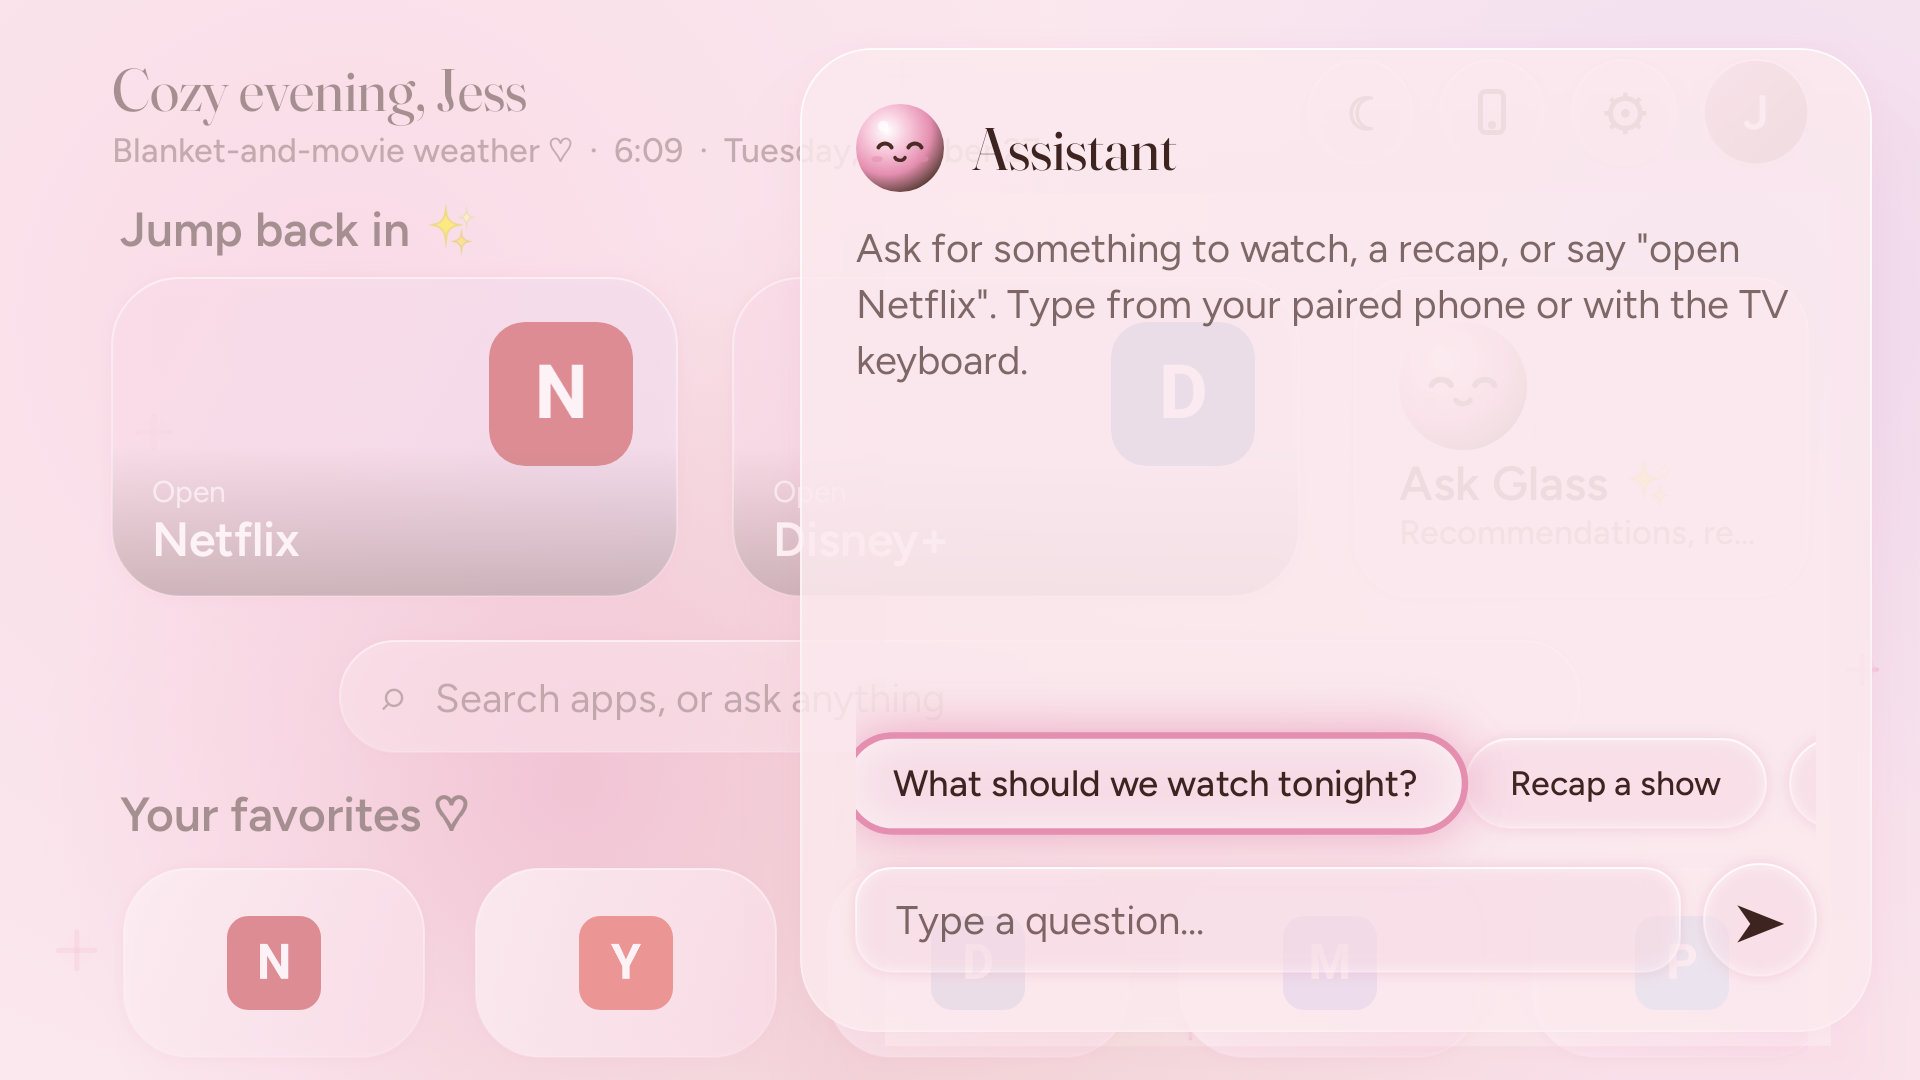
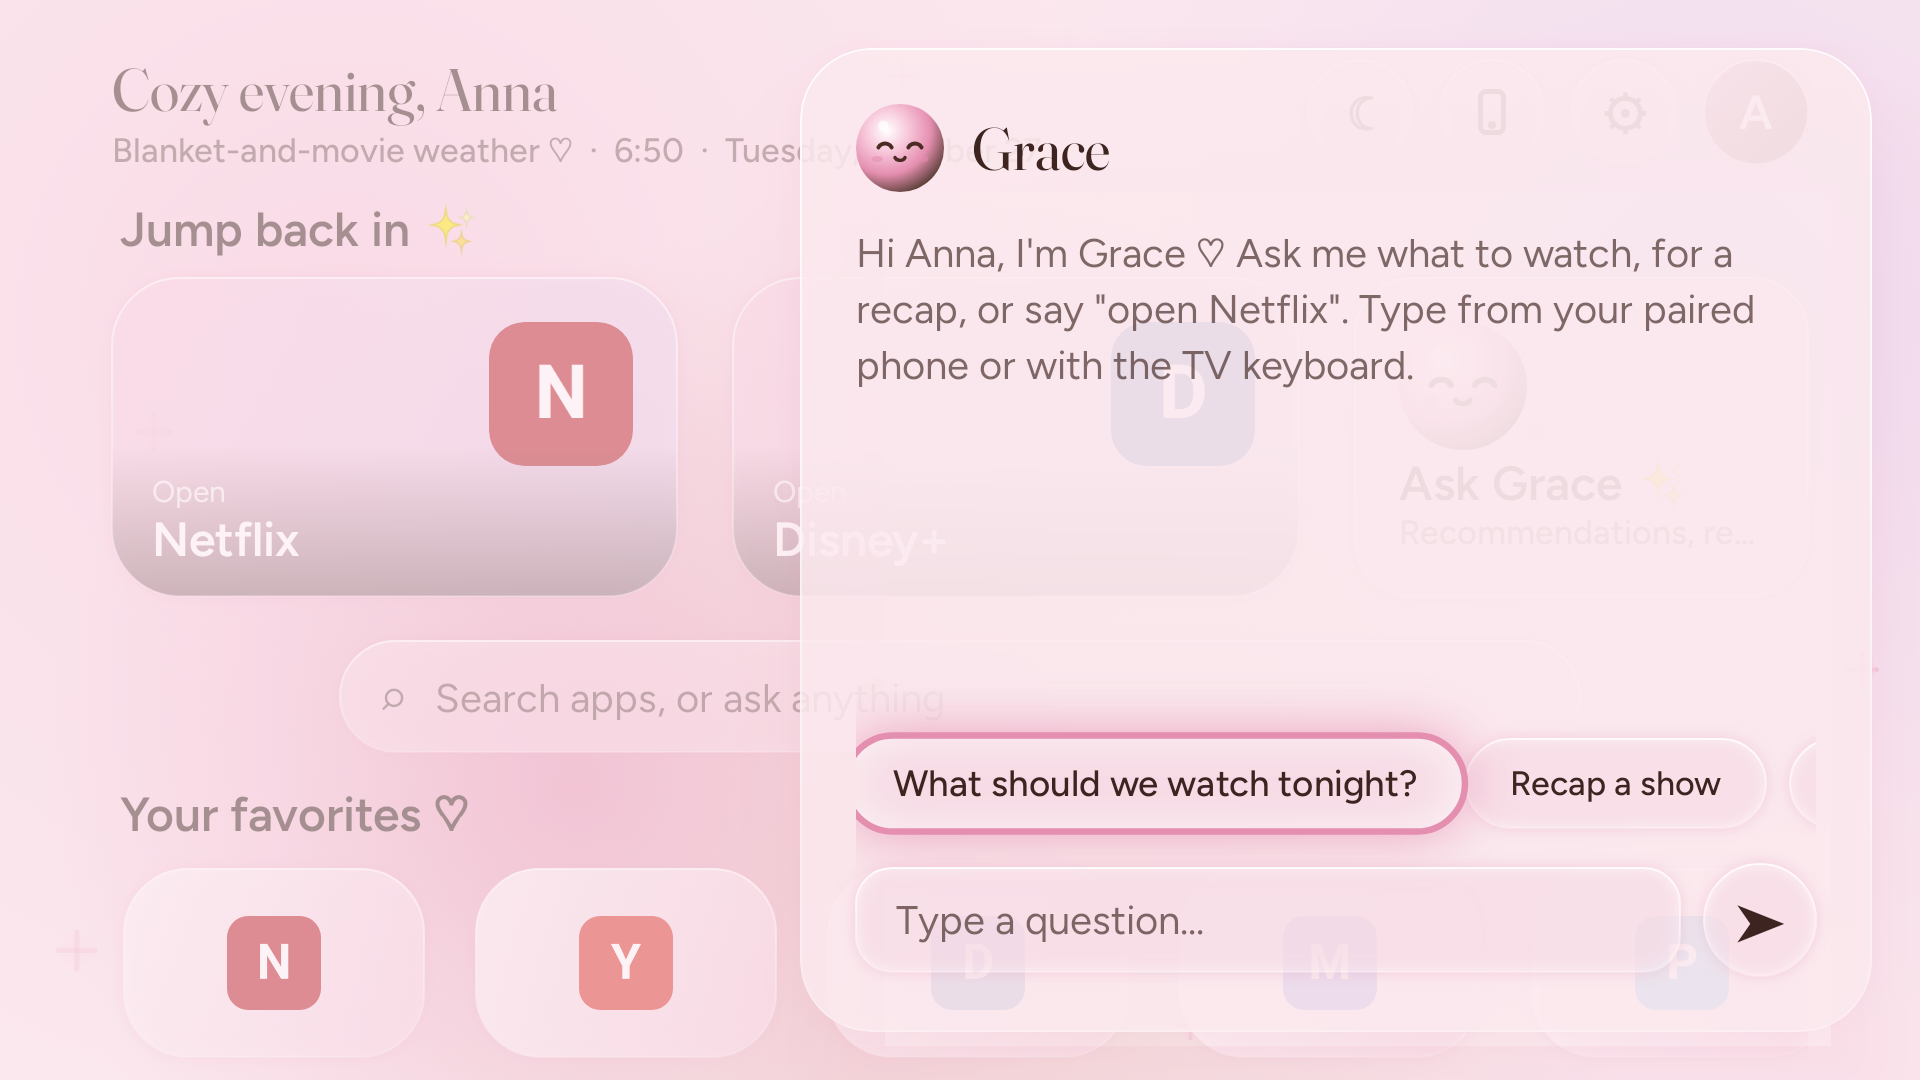
Personalise: greet Anna permanently, name the assistant Grace
- Personal.NAME = "Anna" (name setting removed), Personal.ASSISTANT = "Grace"
- Grace in the shelf card, panel title, system prompt, error copy, phone remote

Claude-Session: https://claude.ai/code/session_01TrDrfaGBXmhcSbtgf3129r

Changed region(s): [[0.4375, 0.2139, 0.9375, 0.3667], [0.5, 0.1222, 0.625, 0.1833], [0.2188, 0.0611, 0.2812, 0.1222]]

diff --git a/app/src/main/java/dev/glasstv/launcher/ui/screens/LauncherRoot.kt b/app/src/main/java/dev/glasstv/launcher/ui/screens/LauncherRoot.kt
@@ -248,7 +248,7 @@ private fun HomeScreen(
 
         if (query.isNotBlank()) {
             if (results.isEmpty()) GlassText(
-                "No apps match \"${query.trim()}\". Press OK in the search bar to ask the assistant.",
+                "No apps match \"${query.trim()}\". Press OK in the search bar to ask Grace.",
                 GlassType.body, Modifier.padding(12.dp), color = LocalGlass.current.textSoft,
             ) else AppRow(app, results, null, ::togglePin)
         } else {
@@ -331,7 +331,7 @@ private fun AssistantCard(app: GlassApp, ui: LauncherUi, modifier: Modifier) {
         Column(Modifier.fillMaxSize().padding(22.dp), verticalArrangement = Arrangement.SpaceBetween) {
             dev.glasstv.launcher.ui.components.CuteOrb(64.dp)
             Column {
-                GlassText("Ask Glass ✨", GlassType.title)
+                GlassText("Ask ${dev.glasstv.launcher.Personal.ASSISTANT} ✨", GlassType.title)
                 GlassText("Recommendations, recaps, or just say “open Netflix”", GlassType.label, color = c.textSoft, maxLines = 3)
             }
         }
@@ -352,7 +352,7 @@ private fun TopBar(settings: Settings, now: LocalDateTime, ui: LauncherUi) {
     Row(Modifier.fillMaxWidth(), verticalAlignment = Alignment.CenterVertically) {
         Column(Modifier.weight(1f)) {
             GlassText(
-                if (settings.greetingName.isBlank()) greeting else "$greeting, ${settings.greetingName}",
+                "$greeting, ${settings.greetingName}",
                 GlassType.greeting, maxLines = 1,
             )
             GlassText(
@@ -374,12 +374,12 @@ private fun TopBar(settings: Settings, now: LocalDateTime, ui: LauncherUi) {
                 }
             }
             CircleIcon("⚙") { ui.settingsOpen = true }
-            // Profile: the greeting name's initial, opens Settings (where the name lives).
+            // Profile: Anna's initial; opens Settings.
             GlassButton(onClick = { ui.settingsOpen = true }, shape = CircleShape, modifier = Modifier.size(52.dp)) {
                 Box(
                     Modifier.size(52.dp).background(Brush.linearGradient(listOf(c.rose, c.cocoa)), CircleShape),
                     contentAlignment = Alignment.Center,
-                ) { GlassText(settings.greetingName.take(1).uppercase().ifEmpty { "☺" }, GlassType.title, color = Color.White) }
+                ) { GlassText(settings.greetingName.take(1).uppercase(), GlassType.title, color = Color.White) }
             }
         }
     }

diff --git a/app/src/main/assets/remote/index.html b/app/src/main/assets/remote/index.html
@@ -205,7 +205,7 @@ nav button.sel svg{stroke:var(--rose)}
   <!-- REMOTE -->
   <section class="pane on" id="remote">
     <div class="qas">
-      <button class="qa glass" data-a="assistant"><span class="ic orb-ic"></span>Assistant</button>
+      <button class="qa glass" data-a="assistant"><span class="ic orb-ic"></span>Grace</button>
       <button class="qa glass" data-a="home"><span class="ic"><svg><use href="#i-home"/></svg></span>Home</button>
       <button class="qa glass" data-a="ambient"><span class="ic"><svg><use href="#i-moon"/></svg></span>Ambient</button>
       <button class="qa glass" data-a="settings"><span class="ic"><svg><use href="#i-gear"/></svg></span>Settings</button>
@@ -258,8 +258,8 @@ nav button.sel svg{stroke:var(--rose)}
       <button class="btn glass" id="bs" style="flex:0 0 76px" aria-label="Backspace"><svg><use href="#i-bs"/></svg></button>
       <button class="btn primary" id="send">Send <svg><use href="#i-send"/></svg></button>
     </div>
-    <p class="hint">Types into the focused box on the TV, or asks the assistant if none is focused.</p>
-    <h2>Ask the assistant</h2>
+    <p class="hint">Types into the focused box on the TV, or asks Grace if none is focused.</p>
+    <h2>Ask Grace</h2>
     <div class="chips">
       <button class="chip glass" data-say="What should we watch tonight? Suggest 4 options across moods.">🍿 What should we watch?</button>
       <button class="chip glass" data-fill="Recap the latest season of ">📺 Recap a show</button>
@@ -408,7 +408,7 @@ nav button.sel svg{stroke:var(--rose)}
   $('#send').onclick = submit;
   txt.addEventListener('keydown', e => { if (e.key === 'Enter' && !e.shiftKey) { e.preventDefault(); submit(); } });
   press($('#bs'), () => { send({ t: 'backspace' }); txt.value = txt.value.slice(0, -1); }, true);
-  $$('[data-say]').forEach(b => b.onclick = () => { if (send({ t: 'text', v: b.dataset.say, submit: true })) { vib(); toast('Asking the assistant…'); } });
+  $$('[data-say]').forEach(b => b.onclick = () => { if (send({ t: 'text', v: b.dataset.say, submit: true })) { vib(); toast('Asking Grace…'); } });
   $$('[data-fill]').forEach(b => b.onclick = () => { txt.value = b.dataset.fill; txt.focus(); txt.setSelectionRange(txt.value.length, txt.value.length); });
 
   // Pink icons: duotone filter over the real icons, remembered per phone (on by default).

diff --git a/app/src/main/java/dev/glasstv/launcher/data/Settings.kt b/app/src/main/java/dev/glasstv/launcher/data/Settings.kt
@@ -17,7 +17,7 @@ enum class ThemeMode { LIGHT, DARK, AUTO }
 data class PairedPhone(val id: String, val name: String, val tokenHash: String, val pairedAt: Long)
 
 data class Settings(
-    val greetingName: String = "",
+    val greetingName: String = dev.glasstv.launcher.Personal.NAME,
     val theme: ThemeMode = ThemeMode.LIGHT,
     val reduceMotion: Boolean = false,
     val extraBlur: Boolean = false,
@@ -40,7 +40,6 @@ private val Context.store by preferencesDataStore("settings")
 
 class SettingsRepository(private val context: Context) {
     private object K {
-        val name = stringPreferencesKey("greeting_name")
         val theme = stringPreferencesKey("theme")
         val reduceMotion = booleanPreferencesKey("reduce_motion")
         val extraBlur = booleanPreferencesKey("extra_blur")
@@ -60,7 +59,6 @@ class SettingsRepository(private val context: Context) {
     val settings: Flow<Settings> = context.store.data.map { it.toSettings() }
 
     private fun Preferences.toSettings() = Settings(
-        greetingName = this[K.name] ?: "",
         theme = this[K.theme]?.let { runCatching { ThemeMode.valueOf(it) }.getOrNull() } ?: ThemeMode.LIGHT,
         reduceMotion = this[K.reduceMotion] ?: false,
         extraBlur = this[K.extraBlur] ?: false,
@@ -77,7 +75,6 @@ class SettingsRepository(private val context: Context) {
         recents = this[K.recents]?.split(',')?.filter { it.isNotBlank() } ?: emptyList(),
     )
 
-    suspend fun setName(v: String) = context.store.edit { it[K.name] = v.trim().take(40) }
     suspend fun setTheme(v: ThemeMode) = context.store.edit { it[K.theme] = v.name }
     suspend fun setReduceMotion(v: Boolean) = context.store.edit { it[K.reduceMotion] = v }
     suspend fun setExtraBlur(v: Boolean) = context.store.edit { it[K.extraBlur] = v }

diff --git a/app/src/main/java/dev/glasstv/launcher/ai/OllamaClient.kt b/app/src/main/java/dev/glasstv/launcher/ai/OllamaClient.kt
@@ -23,7 +23,7 @@ class AssistantUnavailable(val title: String, val fix: String) : Exception(title
 
 object OllamaClient {
     private const val SYSTEM_PROMPT =
-        "You are the assistant built into a living-room TV. Replies are read from a couch 10 feet away: " +
+        "You are Grace, a warm, friendly assistant built into Anna's living-room TV. Replies are read from a couch 10 feet away: " +
             "answer in at most 3 short sentences or 5 short bullet points, no markdown headings, no tables. " +
             "For recommendations give titles with one-line reasons. Never invent facts about cast or plots; say if unsure."
 
@@ -37,7 +37,7 @@ object OllamaClient {
     /** Streams content chunks from /api/chat. Throws [AssistantUnavailable] with a user-facing explanation. */
     fun chat(host: String, model: String, history: List<ChatMessage>): Flow<String> = flow {
         if (host.isBlank()) throw AssistantUnavailable(
-            "The assistant isn't set up yet",
+            "Grace isn't set up yet",
             "Open Settings → Assistant and enter your PC's address, e.g. 192.168.1.50. See docs/ai-setup.md.",
         )
         val base = baseUrl(host)

diff --git a/app/src/main/java/dev/glasstv/launcher/ui/screens/AiPanel.kt b/app/src/main/java/dev/glasstv/launcher/ui/screens/AiPanel.kt
@@ -86,7 +86,7 @@ fun AiPanel(app: GlassApp, onClose: () -> Unit) {
         Row(verticalAlignment = Alignment.CenterVertically) {
             dev.glasstv.launcher.ui.components.CuteOrb(44.dp)
             Spacer(Modifier.width(14.dp))
-            GlassText("Assistant", GlassType.greeting, Modifier.weight(1f))
+            GlassText(dev.glasstv.launcher.Personal.ASSISTANT, GlassType.greeting, Modifier.weight(1f))
             if (state.messages.isNotEmpty()) PillButton("Clear", { app.assistant.clear() })
         }
         Spacer(Modifier.height(16.dp))
@@ -95,7 +95,7 @@ fun AiPanel(app: GlassApp, onClose: () -> Unit) {
             if (state.messages.isEmpty() && state.error == null) {
                 item {
                     GlassText(
-                        "Ask for something to watch, a recap, or say \"open Netflix\". Type from your paired phone or with the TV keyboard.",
+                        "Hi Anna, I'm Grace ♡ Ask me what to watch, for a recap, or say \"open Netflix\". Type from your paired phone or with the TV keyboard.",
                         GlassType.body, color = c.textSoft,
                     )
                 }

diff --git a/app/src/main/java/dev/glasstv/launcher/ui/screens/SettingsScreen.kt b/app/src/main/java/dev/glasstv/launcher/ui/screens/SettingsScreen.kt
@@ -89,13 +89,6 @@ fun SettingsScreen(app: GlassApp, s: Settings, onClose: () -> Unit, onShowQr: ()
                 }
             }
 
-            section("PROFILE")
-            item {
-                Labeled("Greeting name") {
-                    GlassTextField(s.greetingName, { scope.launch { repo.setName(it) } }, "Optional, e.g. Jess")
-                }
-            }
-
             section("APPEARANCE")
             item {
                 Labeled("Theme") {
@@ -122,7 +115,7 @@ fun SettingsScreen(app: GlassApp, s: Settings, onClose: () -> Unit, onShowQr: ()
             section("WEATHER")
             item { WeatherRow(app, s) }
 
-            section("ASSISTANT")
+            section("GRACE (ASSISTANT)")
             item { AssistantRows(app, s) }
 
             section("HOME BUTTON")

diff --git a/app/src/test/java/dev/glasstv/launcher/TvScreensTest.kt b/app/src/test/java/dev/glasstv/launcher/TvScreensTest.kt
@@ -59,7 +59,6 @@ class TvScreensTest {
 
     @Before fun setUp() = runBlocking {
         app.settingsRepo.setOnboarded()
-        app.settingsRepo.setName("Jess")
         app.settingsRepo.recordLaunch("com.disney.disneyplus")
         app.settingsRepo.recordLaunch("com.netflix.ninja")
         app.appRepo.refresh()

diff --git a/app/src/main/java/dev/glasstv/launcher/Personal.kt b/app/src/main/java/dev/glasstv/launcher/Personal.kt
@@ -1,0 +1,9 @@
+package dev.glasstv.launcher
+
+/** Built-in personalisation for this TV. */
+object Personal {
+    /** Who the TV greets. Fixed by design; not editable in Settings. */
+    const val NAME = "Anna"
+    /** The assistant's name. */
+    const val ASSISTANT = "Grace"
+}

diff --git a/README.md b/README.md
@@ -43,7 +43,7 @@ Regenerate: `./gradlew :app:testDebugUnitTest -PtvScreens --tests '*TvScreensTes
 | **Assistant** | Glass sheet slides in from the right. Streams from Ollama. Quick-prompt chips. "open Netflix" style commands run locally. Plain-language error card with the fix when the PC is unreachable. |
 | **Phone remote** | Pink-glass web remote with app **shortcuts** (real icons) and quick actions (Assistant, Ambient, Settings), plus D-pad, OK, back, home, media keys, volume, touchpad, keyboard and dictation. WebSocket with auto-reconnect. 4-digit pairing, remembered phones, revoke in Settings. |
 | **Ambient** | After 3 idle minutes: a big clock over the drifting orbs. Any button wakes it. |
-| **Settings** | Name, theme (light/dark/auto), reduce motion, weather location and units, Ollama host and model with a connection test, home-button control, favorites, paired phones, QR, and shortcuts to Android TV settings and inputs. Persisted with DataStore. |
+| **Settings** | Theme (light/dark/auto), reduce motion, weather location and units, Ollama host and model with a connection test, home-button control, favorites, paired phones, QR, and shortcuts to Android TV settings and inputs. Persisted with DataStore. |
 
 ## Project layout
 
